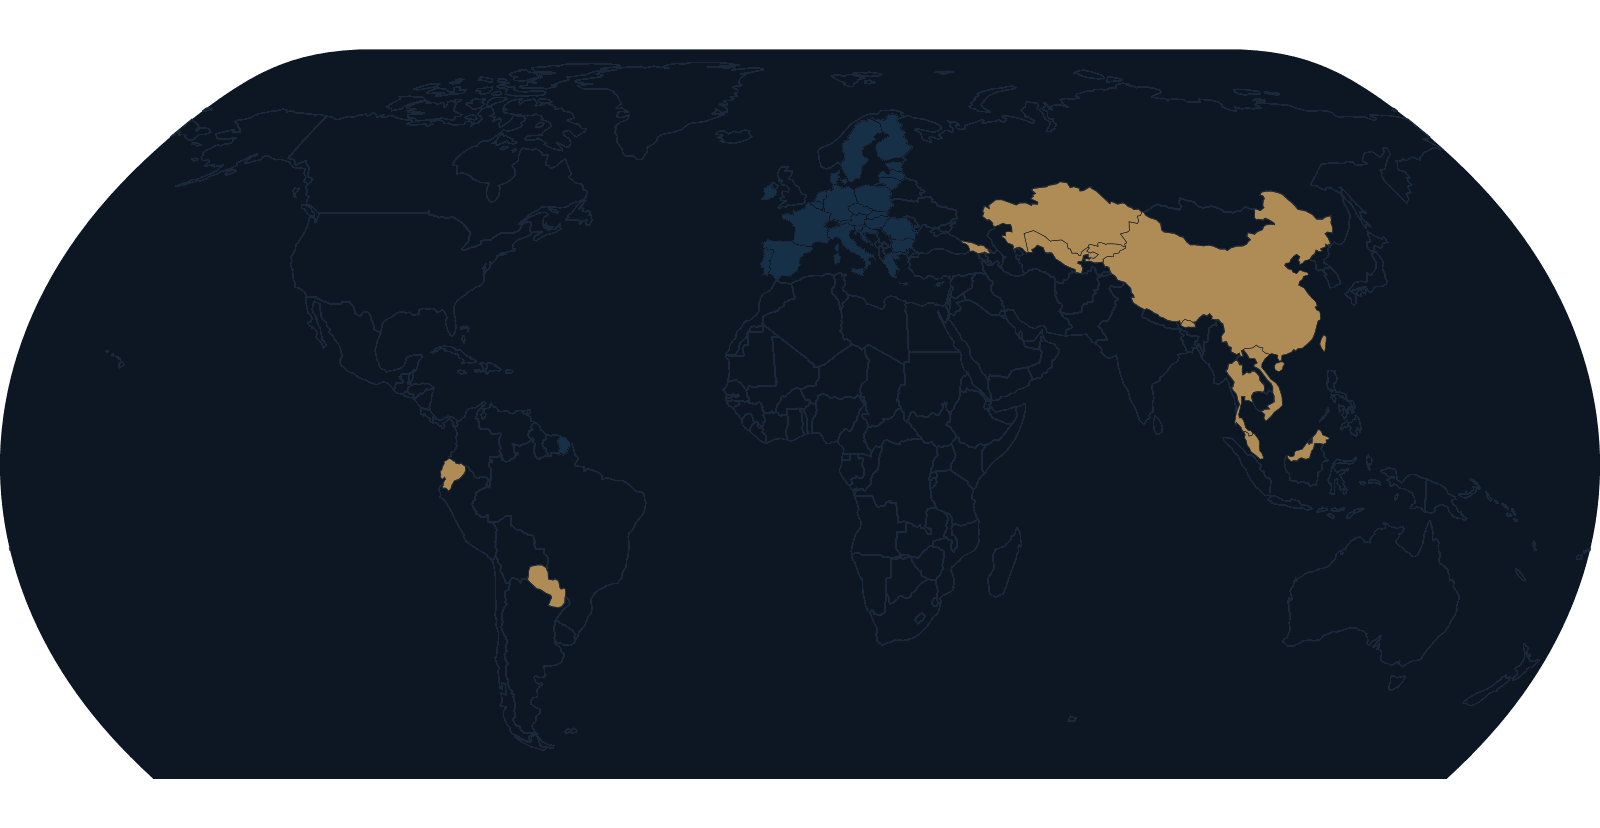
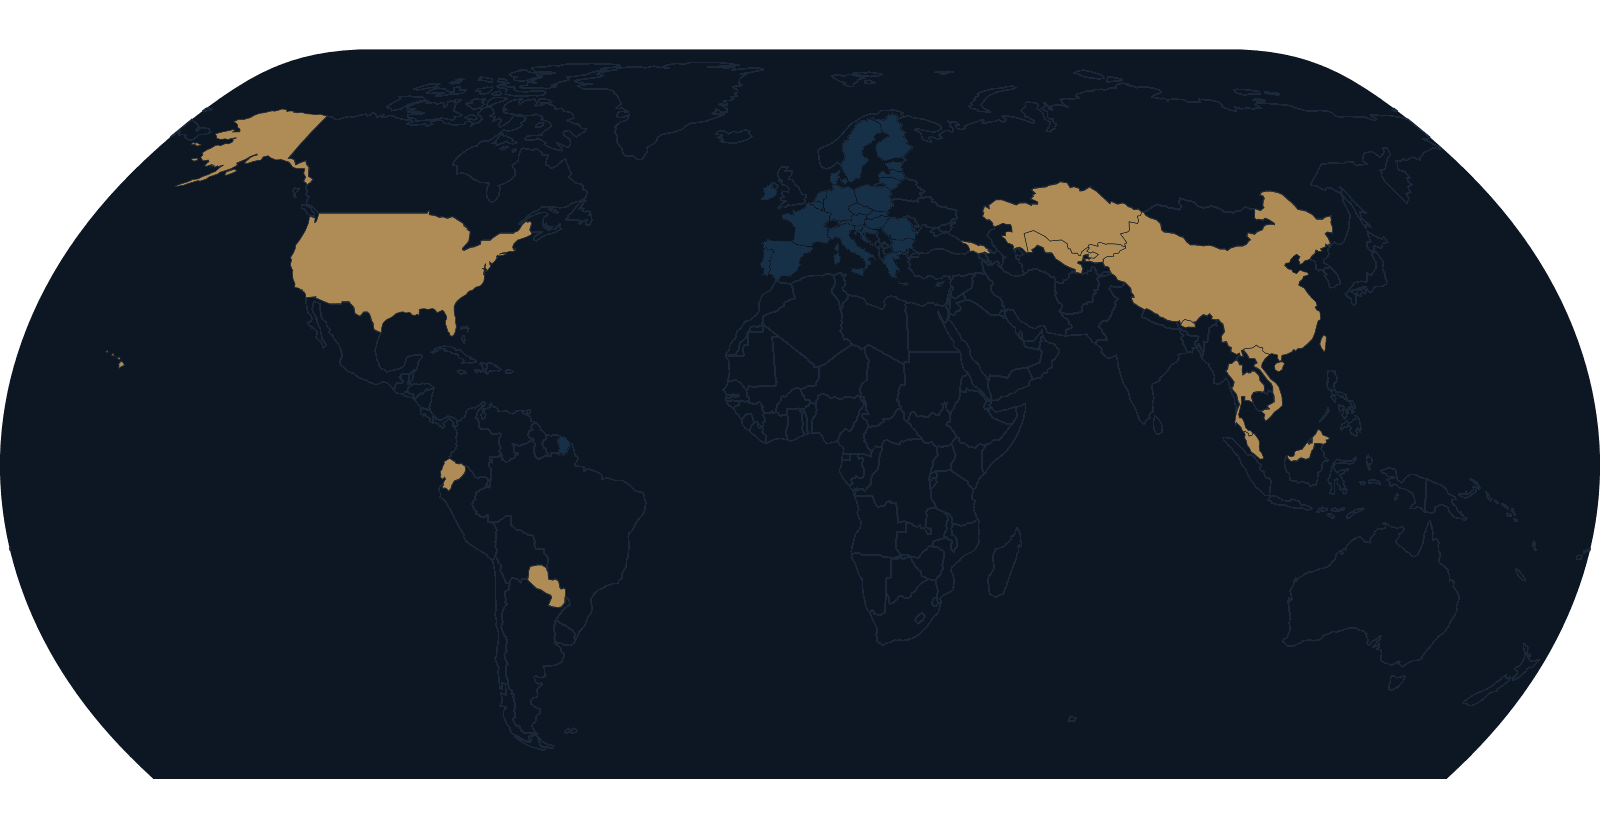
rev. 13 sep

Changed region(s): [[0.1562, 0.2415, 0.3438, 0.3925], [0.125, 0.1208, 0.2188, 0.2114]]

diff --git a/index.html b/index.html
@@ -21,7 +21,7 @@
 <header class="site-header">
   <div class="container header-inner">
     <a href="#top" class="logo" aria-label="LTC International Limited, home">
-      <img src="assets/logo.png" alt="LTC — We make it work!" width="198" height="170">
+      <img src="assets/logo.png" alt="LTC - We make it work!" width="198" height="170">
     </a>
 
     <button class="nav-toggle" id="navToggle" aria-expanded="false" aria-controls="siteNav" aria-label="Open menu">
@@ -48,11 +48,11 @@
       <p class="body-text">
         We identify and organize business opportunities in emerging markets. We work with
         manufacturers, suppliers, and partners seeking to establish or expand operations in
-        Asia, Central Asia, South America, and beyond. Rather than advising remotely, we invest
-        our own capital and time to verify opportunities firsthand. We only commit to projects
-        we are confident we can deliver. We operate on a performance basis. Results determine
-        compensation. This means we are selective about partnerships and require reliability
-        from everyone we work with.
+        Southeast Asia, Central Asia, South America, and other regions. Rather than advising
+        remotely, we invest our own capital and time to verify opportunities firsthand. We only
+        commit to projects we are confident we can deliver. We operate on a performance basis
+        only. Results determine compensation. This means we are selective about partnerships
+        and require reliability from everyone we work with.
       </p>
     </div>
   </section>
@@ -64,11 +64,12 @@
       </div>
       <p>
         We identify global business opportunities and connect them with proven local partners.
-        Rather than establishing operations in every market, we leverage established relationships
-        with regional experts who understand local conditions, regulatory environments, and market
-        dynamics. This allows us to move quickly, minimize complexity, and focus on what we do best:
-        sourcing, structuring, and connecting. Our partners bring deep local knowledge and execution
-        capability. The result is efficiency without duplication.
+        Rather than establishing operations in every market, LTC works together with trustworthy
+        regional experts who understand local conditions and regulatory environments. This allows
+        us to move quickly, minimize complexity, and focus on what we do best: sourcing, structuring,
+        and connecting. For day-to-day execution on the ground, LTC works with a dedicated team or
+        partner in each region. This local knowledge and execution capability means efficiency
+        without duplication.
       </p>
     </div>
   </section>
@@ -80,16 +81,16 @@
       </div>
       <p>
         Many companies see emerging markets as risky or complex. Cultural differences, language
-        barriers, regulatory unfamiliarity &mdash; these create hesitation. They retreat to easier
-        markets or abandon opportunities altogether.
+        barriers, and regulatory unfamiliarity create hesitation. They retreat to easier markets
+        or abandon opportunities altogether.
       </p>
       <p class="pull-statement">
         What others perceive as obstacles, we navigate as opportunity.
       </p>
       <p>
         We see this differently. We speak the languages. We understand local business culture. We
-        have relationships built over years. This is particularly relevant for companies seeking to
-        expand beyond their home markets. Whether sourcing, manufacturing, or partnership, entering
+        have relationships built over years. This is particularly relevant for companies sourcing
+        from the other side of the world. Whether sourcing, manufacturing, or partnership, entering
         unfamiliar territories requires more than capital. It requires understanding. We provide that.
       </p>
     </div>
@@ -101,15 +102,11 @@
         <h2>Sectors</h2>
       </div>
       <ul class="sector-list">
-        <li>Construction and industrial steel (carbon to high-grade for oil &amp; gas)</li>
+        <li>Oil and gas</li>
         <li>Wood plantations and forest products</li>
         <li>Furniture manufacturing</li>
         <li>Business development and expansion in emerging markets</li>
       </ul>
-      <p class="note">
-        Current focus includes establishing operations in Central Asia, particularly human
-        resources and workforce development initiatives.
-      </p>
     </div>
   </section>
 
@@ -121,7 +118,7 @@
       </div>
 
       <div class="map-wrap">
-        <img src="assets/markets-map.png" alt="World map highlighting LTC International's core markets across Asia, Central Asia, South America and the EU" width="1600" height="828">
+        <img src="assets/markets-map.png" alt="World map highlighting LTC International's core markets across Asia, Central Asia, South America, the United States and the EU" width="1600" height="828">
       </div>
       <div class="map-legend">
         <span><i class="swatch swatch-primary"></i> Core markets</span>
@@ -140,6 +137,7 @@
         <li>Georgia</li>
         <li>Ecuador</li>
         <li>Paraguay</li>
+        <li>United States</li>
         <li>Various EU countries</li>
       </ul>
       <p class="note">
@@ -190,7 +188,7 @@
 
 <footer class="site-footer">
   <div class="container footer-inner">
-    <img src="assets/logo.png" alt="LTC — We make it work!" width="99" height="85">
+    <img src="assets/logo.png" alt="LTC - We make it work!" width="99" height="85">
     <p>&copy; <span id="year"></span> LTC International Limited.</p>
   </div>
 </footer>
